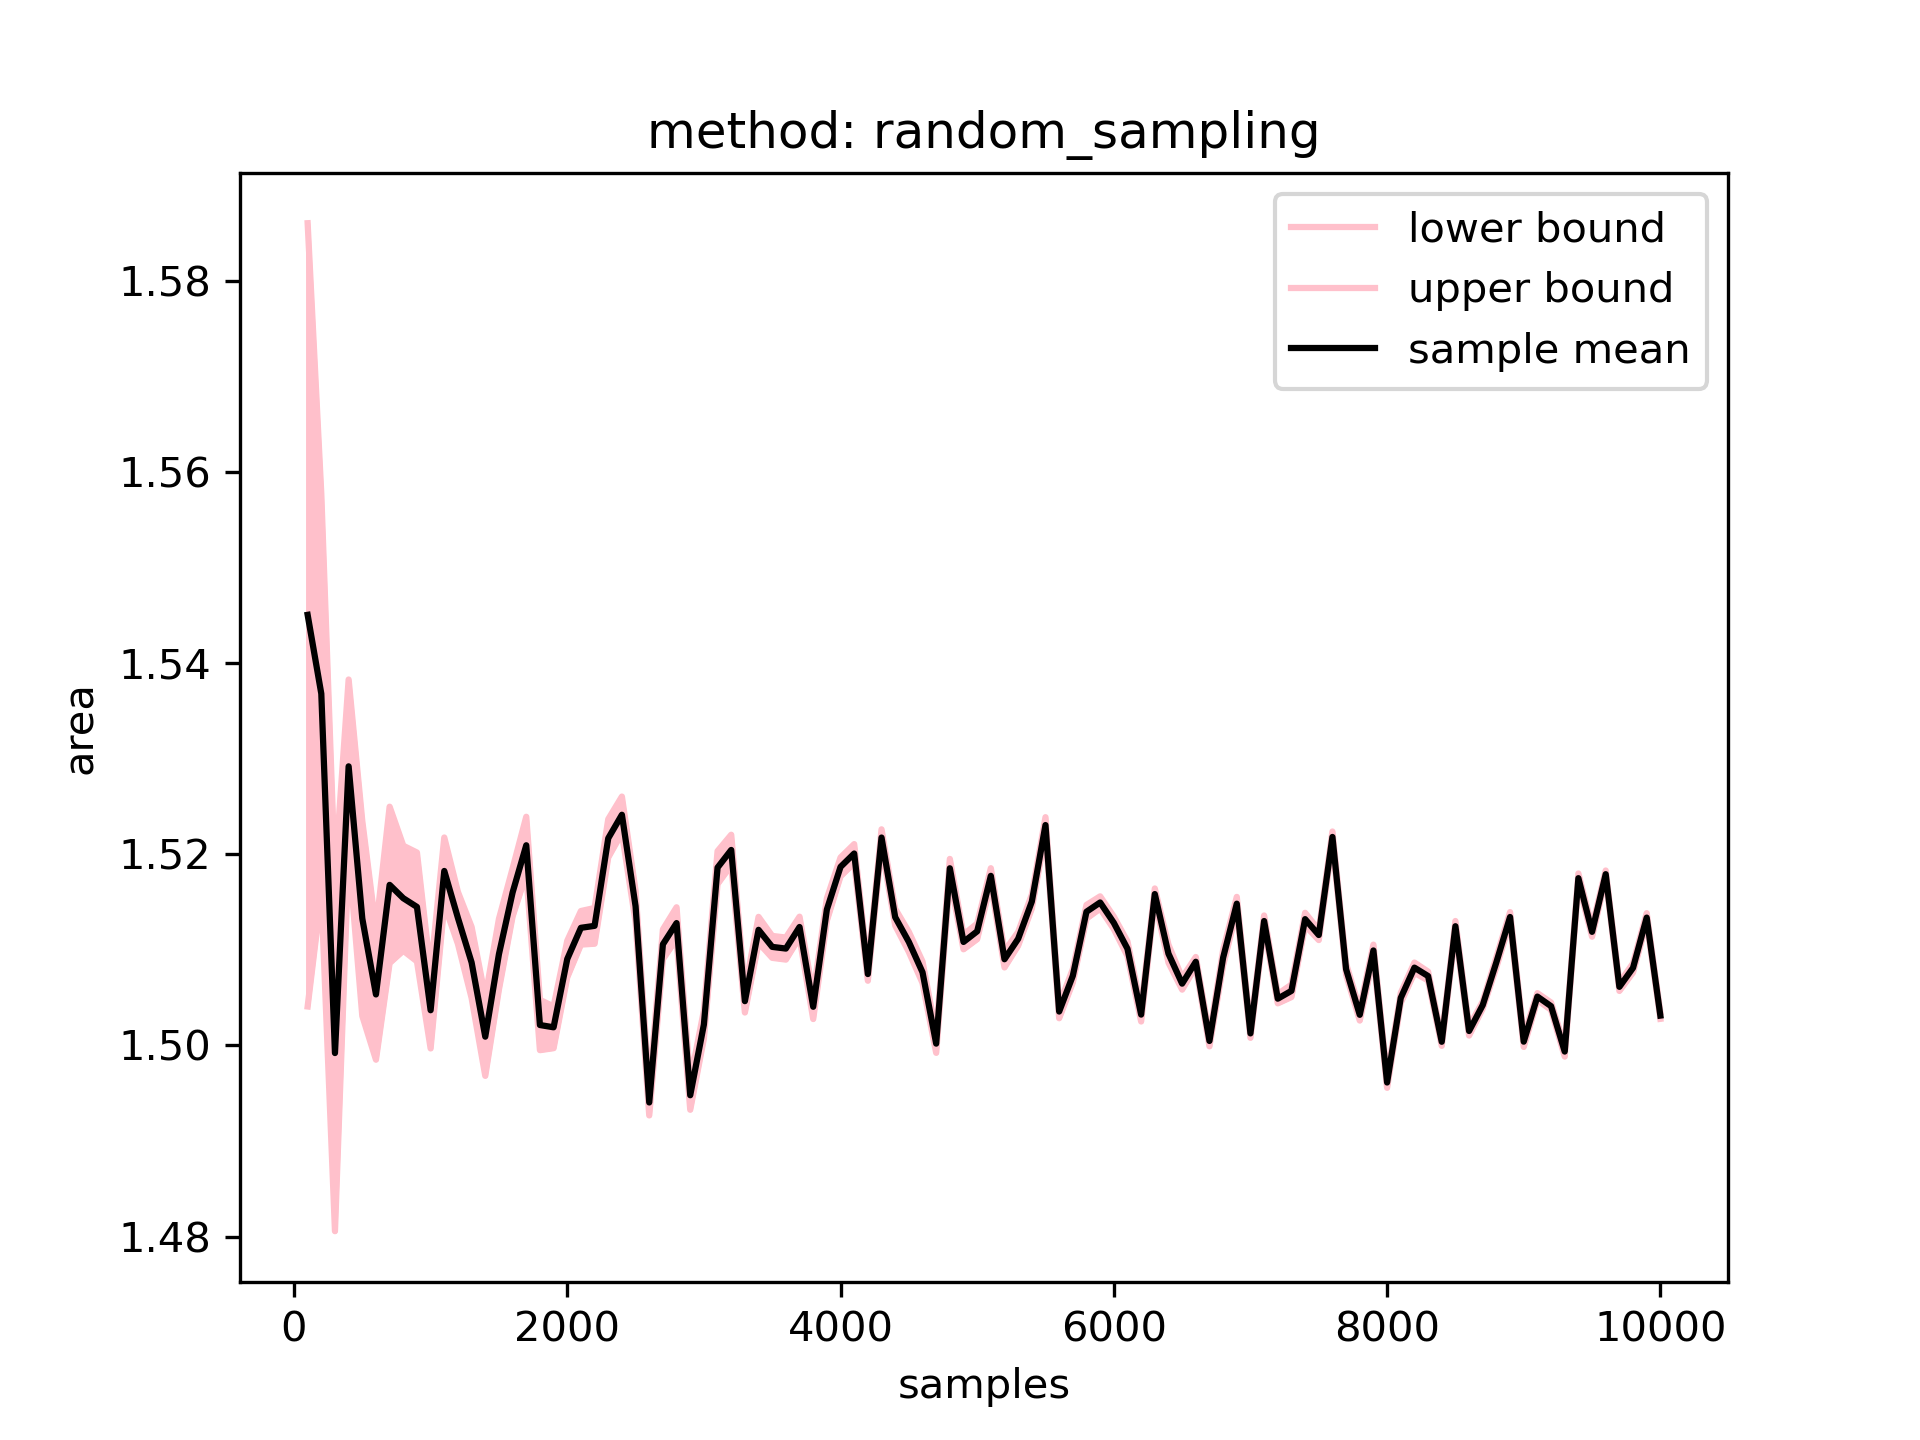
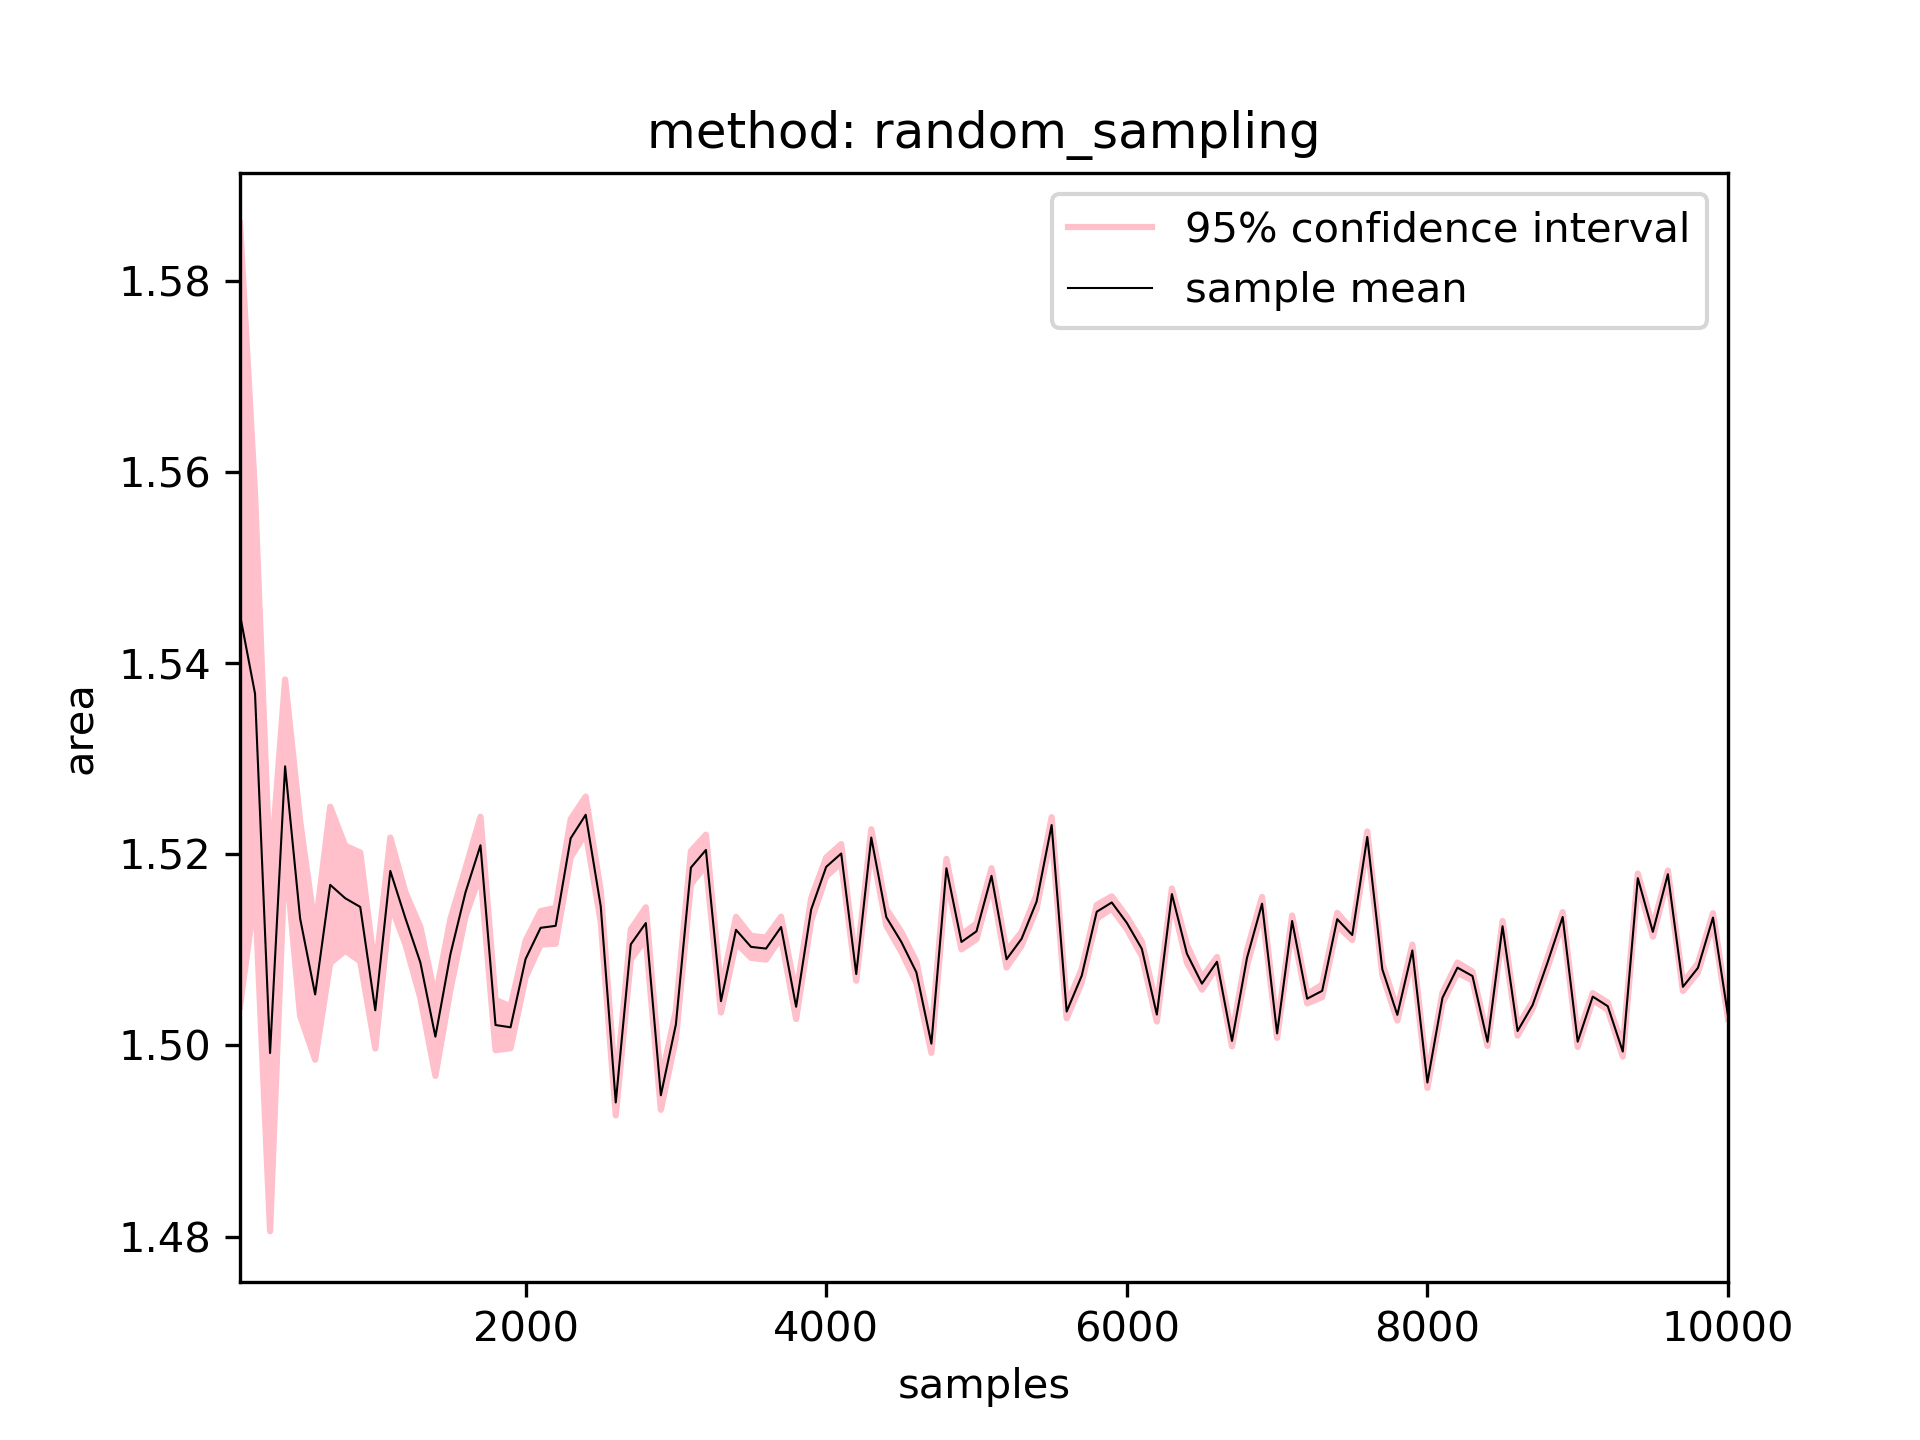
Confidence interval

diff --git a/code/ConfidenceInterval.py b/code/ConfidenceInterval.py
@@ -72,12 +72,13 @@ def main():
     elif type_experiment == "Fixeds":
         x = np.unique(results[:,0])
         xlab = "iterations"
-    plt.plot(x, lower_bound, 'pink', label = 'lower bound')
-    plt.plot(x, upper_bound, 'pink', label = 'upper bound')
-    plt.plot(x, sample_mean,'k',label = 'sample mean')
+    plt.plot(x, lower_bound, 'pink', label = '95% confidence interval')
+    plt.plot(x, upper_bound, 'pink')
+    plt.plot(x, sample_mean,'k',label = 'sample mean', linewidth = 0.5)
     plt.fill_between(np.unique(results[:,1]),lower_bound, upper_bound, color = 'pink')
     plt.xlabel(xlab)
     plt.ylabel("area")
+    plt.xlim(min(x),max(x))
     plt.legend()
     title = "method: " + sampling_method
     plt.title(title)
